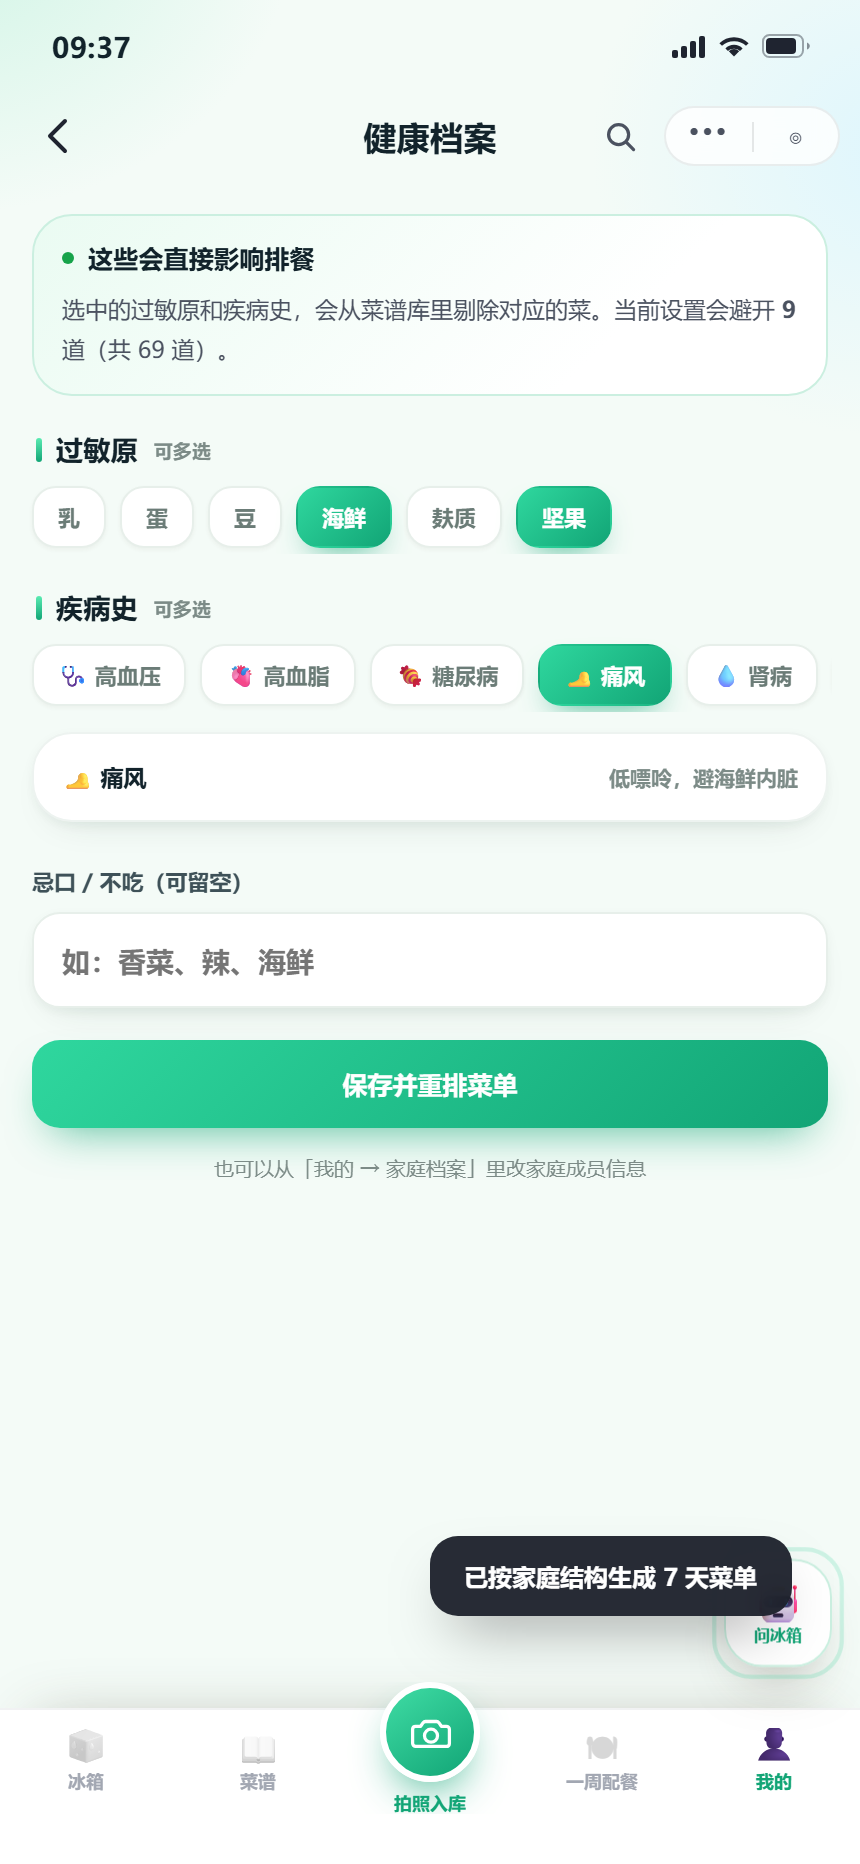
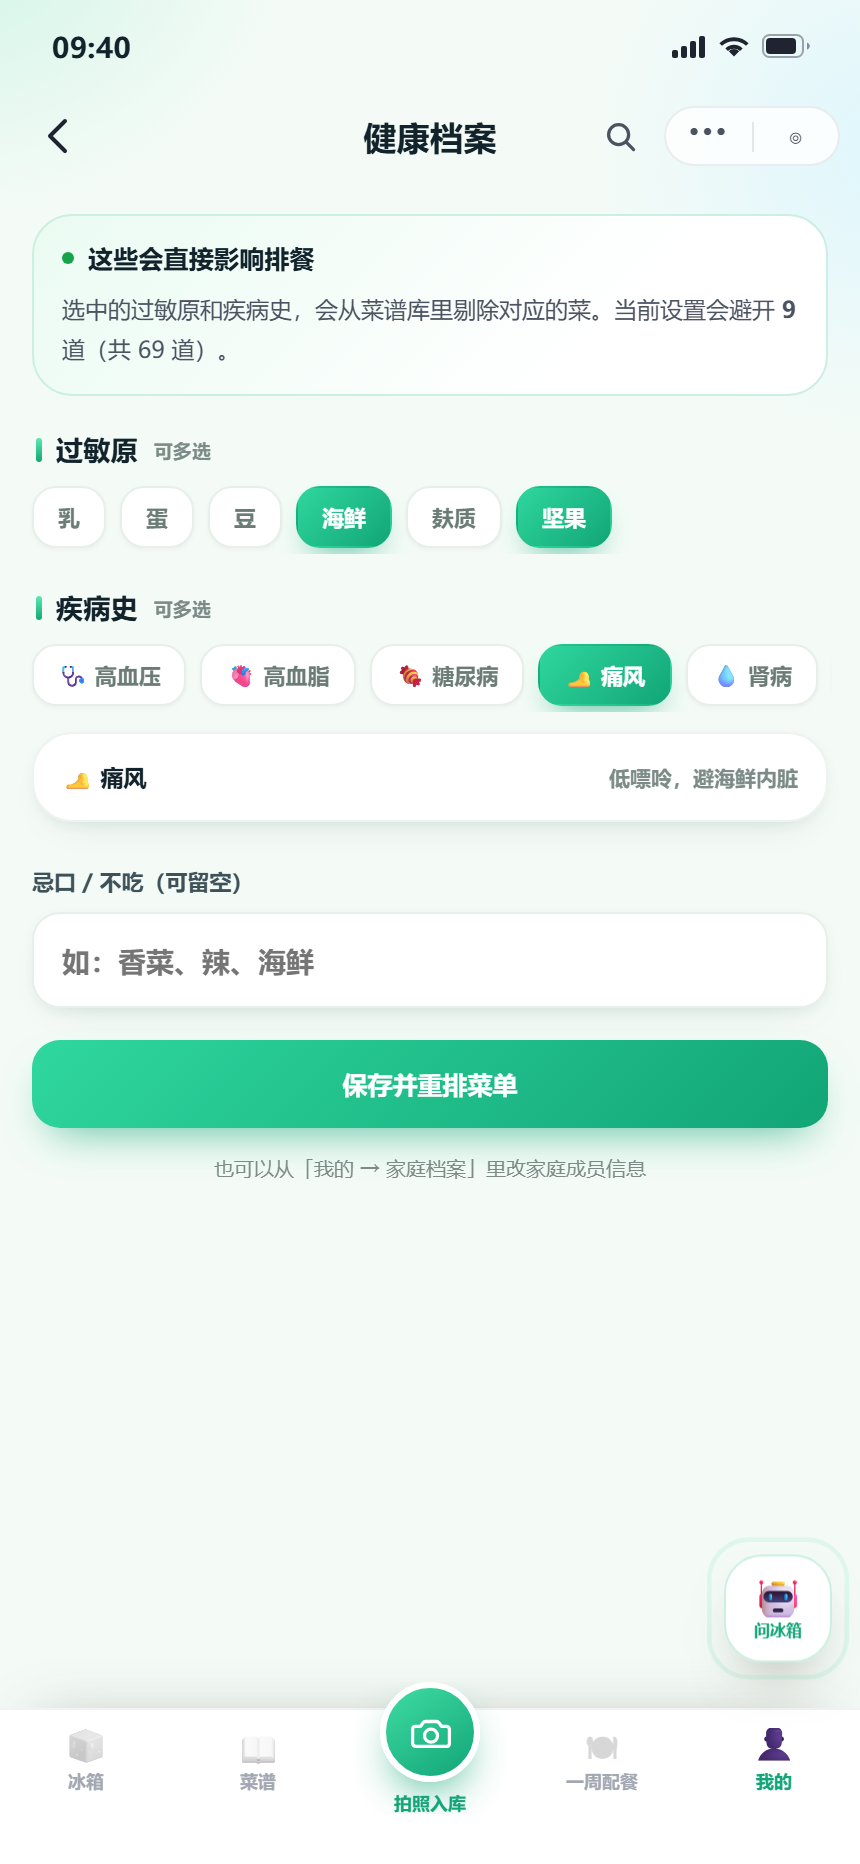
fix: 底部一直显示的黑色小方块（空 Toast 被动画撑出来）
toastIn 动画带 fill-mode both 又挂在 .toast 上，导致空 Toast 常驻可见（34x22 的深色圆角块）。改为只在 .toast.show 时执行动画。

Changed region(s): [[0.4837, 0.809, 0.9977, 0.9024], [0.1209, 0.0, 0.1512, 0.0311]]

diff --git a/index.html b/index.html
@@ -9,7 +9,7 @@
 <meta name="apple-mobile-web-app-capable" content="yes">
 <meta name="apple-mobile-web-app-status-bar-style" content="default">
 <title>冰箱对对碰 · AI 家庭食材管家</title>
-<link rel="stylesheet" href="css/app.css?v=19">
+<link rel="stylesheet" href="css/app.css?v=20">
 </head>
 <body>
 <div class="stage">
@@ -59,10 +59,10 @@
 <div class="modal-host" id="modal" hidden></div>
 <div class="toast" id="toast"></div>
 
-<script src="js/data.js?v=19"></script>
-<script src="js/engine.js?v=19"></script>
-<script src="js/store.js?v=19"></script>
-<script src="js/ui.js?v=19"></script>
-<script src="js/app.js?v=19"></script>
+<script src="js/data.js?v=20"></script>
+<script src="js/engine.js?v=20"></script>
+<script src="js/store.js?v=20"></script>
+<script src="js/ui.js?v=20"></script>
+<script src="js/app.js?v=20"></script>
 </body>
 </html>

diff --git a/css/app.css b/css/app.css
@@ -1355,7 +1355,7 @@ body{ background:#EAF3EE; }
 }
 
 /* Toast：滑入 + 底部进度条 */
-.toast{ animation:toastIn .42s cubic-bezier(.22,.9,.28,1) both; }
+.toast.show{ animation:toastIn .42s cubic-bezier(.22,.9,.28,1) both; }
 @keyframes toastIn{
   from{ opacity:0; transform:translateY(18px) scale(.94) }
   to{ opacity:1; transform:none }

diff --git a/sw.js b/sw.js
@@ -1,5 +1,5 @@
 /* 冰箱对对碰 · 离线缓存 */
-const CACHE = 'ddm-v19';
+const CACHE = 'ddm-v20';
 const SHELL = [
   './', './index.html', './css/app.css', './manifest.json',
   './js/data.js', './js/engine.js', './js/store.js', './js/ui.js', './js/app.js',
